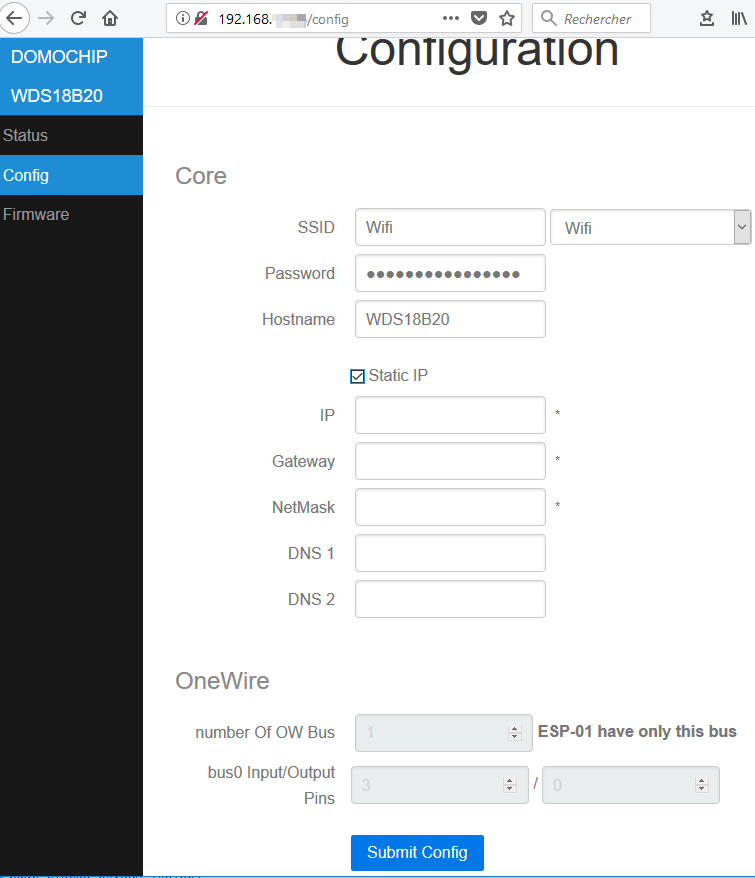
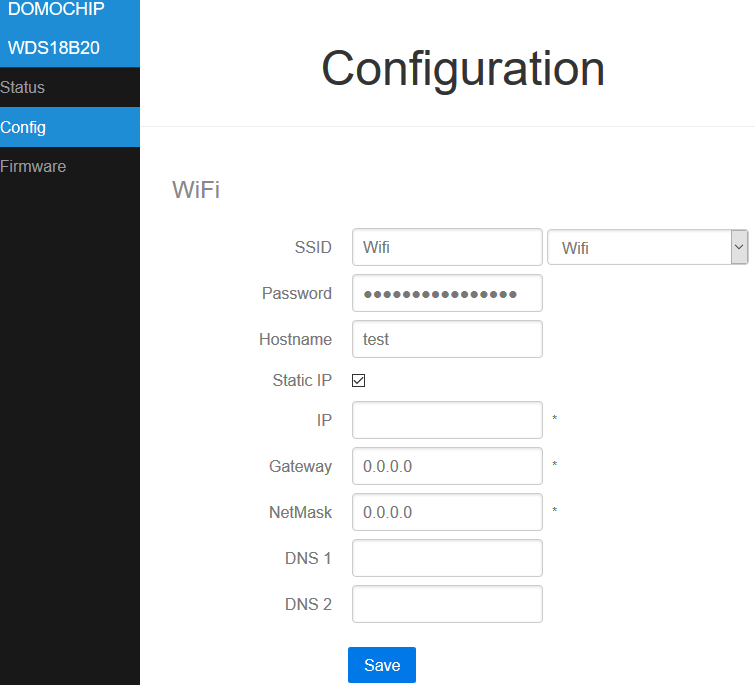
Update README

diff --git a/README.md b/README.md
@@ -1,8 +1,10 @@
 # WirelessDS18B20
 
 This project use an ESP8266 and some DS18B20 sensors on a 1-Wire bus to provide temperatures in JSON format (Jeedom compatible).
+Since version 3.2.1, temperatures can be sent regularly to an MQTT server too.
 
 The global idea of this project is that any system (like Jeedom) that's able to do an HTTP GET request and interpret JSON will get list of DS18B20 ROMcode available on buses or current temperature of a DS18B20 sensor.
+MQTT compatible device will also be able to receive pushed temperature.
 
 ![getList](https://raw.github.com/Domochip/Wireless-DS18B20-Bus/master/img/getL.jpg) ![getTemp](https://raw.github.com/Domochip/Wireless-DS18B20-Bus/master/img/getT.jpg)
 
@@ -67,8 +69,22 @@ WirelessDS18B20 offers you some webpages in order to configure it :
 - **ssid & password** : IDs of your Wifi Network
 - **hostname** : name of ESP on the network
 - **IP,GW,NetMask,DNS1&2** : Fixed IP configuration
+
+![config2 screenshot](https://raw.github.com/Domochip/Wireless-DS18B20-Bus/master/img/config2.png)
+
 - **number of OneWire buses** : number of OneWire buses...
 - **buses pin numbers** : pins for each oneWire buses (2 pins per OW bus)
+
+![config3 screenshot](https://raw.github.com/Domochip/Wireless-DS18B20-Bus/master/img/config3.png)
+
+- **HA Type** : None (HTTP GET only) or MQTT
+- **SSL/TLS** : check if your MQTT server enforce SSL/TLS
+- **Hostname** : IP or DNS name of your MQTT server
+- **Upload Period** : Period in seconds betwwen each MQTT send
+- **MQTT Type** : describe the structure of the topic end
+- **Port** : MQTT Port
+- **Username/Password** : MQTT Username/Password (both are optionnal)
+- **Base Topic** : Prefix of the topic
 
 - `http://IP/fw` allows you to flash a new firmware version :
 
@@ -87,7 +103,7 @@ Usage (answers are in JSON format):
 - `http://IP/getL?bus0` will return list of DS18B20 ROMCodes available on the 1-Wire bus number 0
 - `http://IP/getT?bus0=0A1B2C3D4E5F6071` will return simple JSON with temperature from the sensor
 
-### With Jeedom
+### With Jeedom (HTTP GET Method)
 
 > Memento : Jeedom is an innovative home automation system that can be found at <http://jeedom.com>
 
